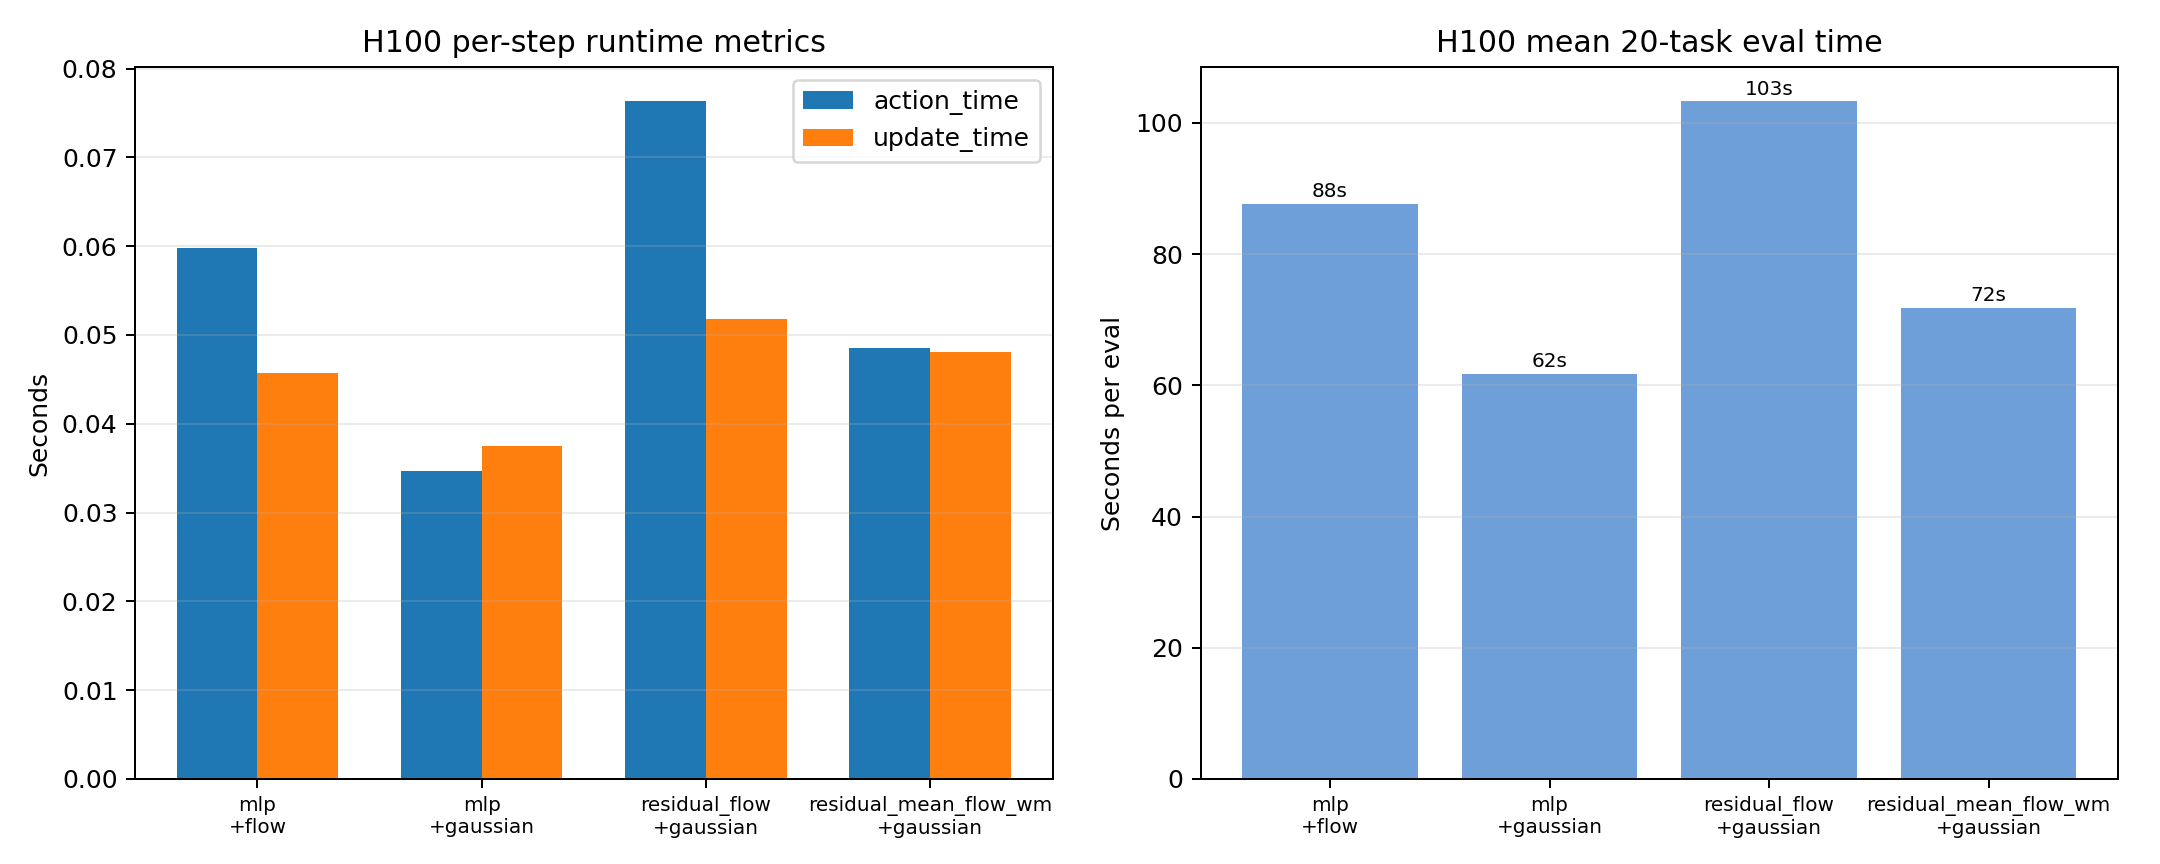
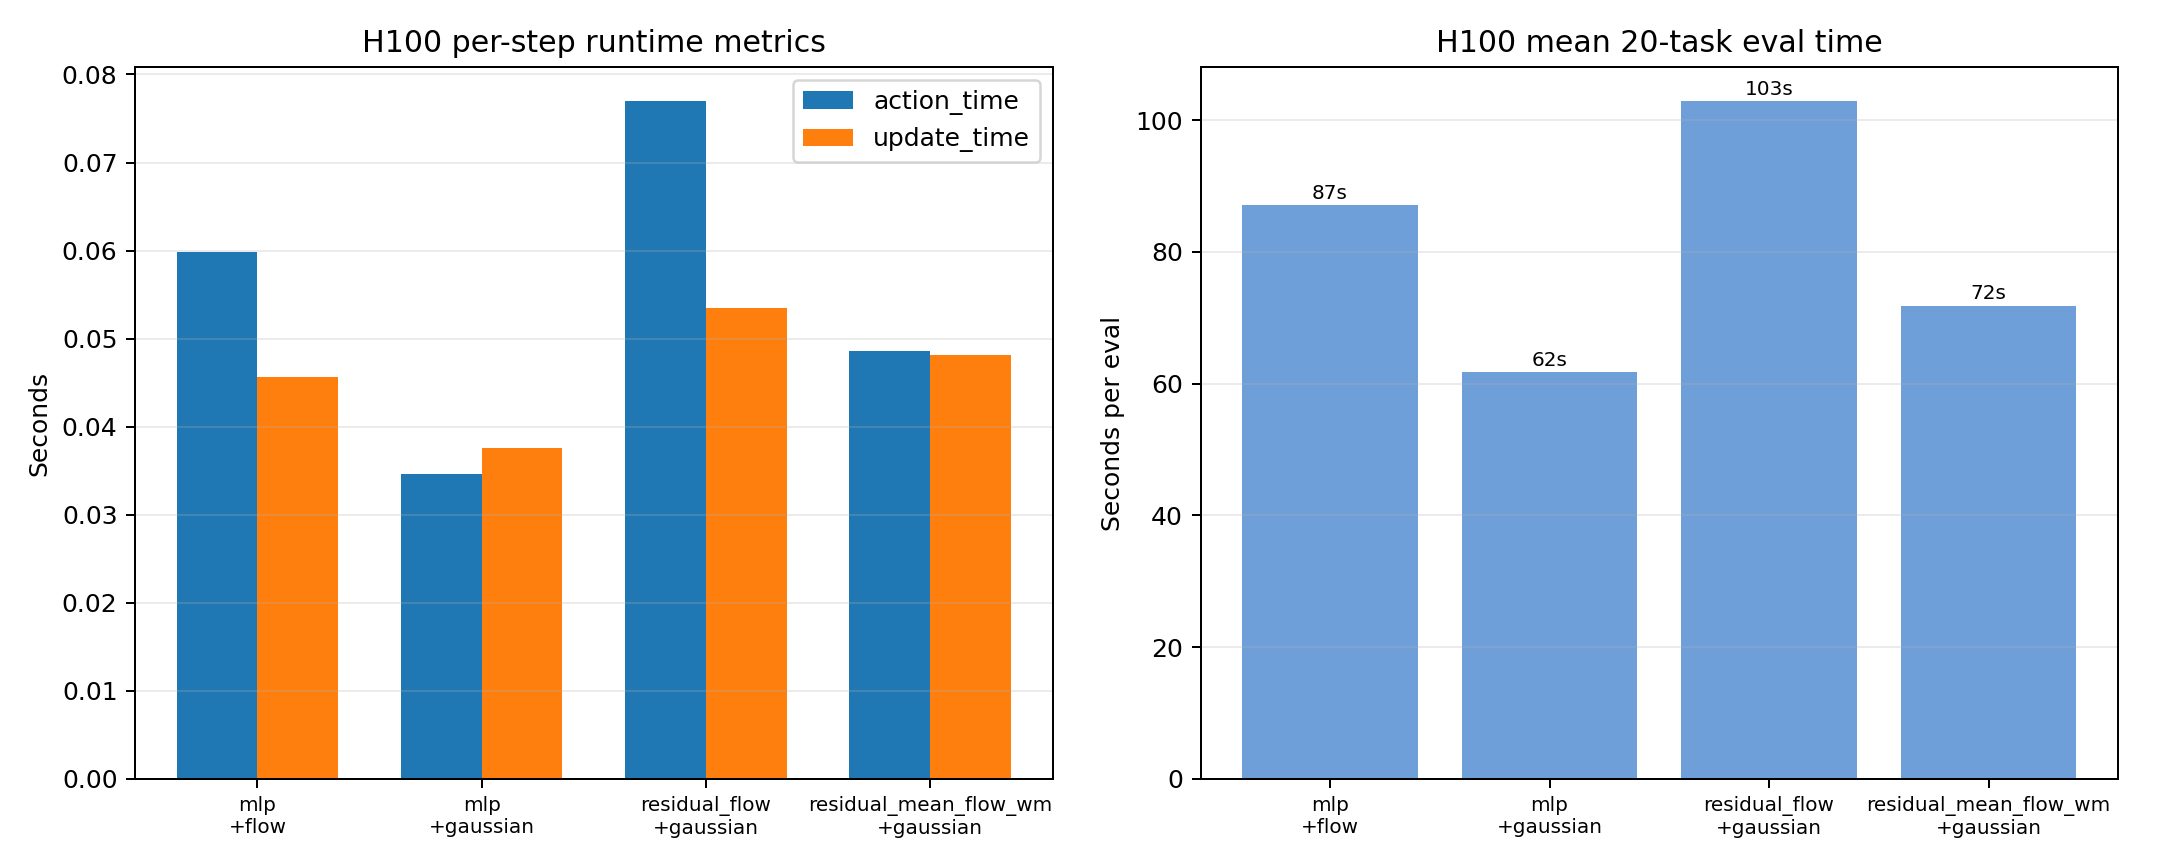
Update subset20 monitoring results

diff --git a/docs/experiment_results_summary.md b/docs/experiment_results_summary.md
@@ -1,6 +1,6 @@
 # Experiment Results Summary
 
-Last updated: 2026-06-10 19:32 EDT
+Last updated: 2026-06-10 20:30 EDT
 
 Metric: `avg_score`, the Newt/MMBench normalized score averaged over evaluated tasks. This is the same normalized-score definition used by the official Newt paper, but our local subset20/subset40 results are not directly comparable to the official 200-task protocol.
 
@@ -61,17 +61,17 @@ Metric: `avg_score`, the Newt/MMBench normalized score averaged over evaluated t
 | Subset20 10M high-step | 20 | 10M target + 50k demo | MLP | Gaussian | H100 | complete | 10.0M | 0.53816 | First completed 10M subset20 cell; peak observed eval was 0.59102 at 8.8M. |
 | Subset20 10M high-step | 20 | 10M target + 50k demo | MLP | flow | L40S | resubmitted | 7.6M | 0.58263 | Strong MLP-WM cell; preempted at 7.78M train and resubmitted as `9797385_[1]`. |
 | Subset20 10M high-step | 20 | 10M target + 50k demo | MLP | Gaussian | L40S | complete | 10.0M | 0.48801 | Completed 10M despite Slurm preemption label; peak observed eval was 0.55139 at 7.4M. |
-| Subset20 10M high-step | 20 | 10M target + 50k demo | MLP | Gaussian | H200 | running | 8.6M | 0.48073 | Active as `9796333_0`; peak observed eval was 0.53666 at 7.4M. |
-| Subset20 10M high-step | 20 | 10M target + 50k demo | MLP | flow | H100 | running | 9.0M | 0.56532 | Resubmitted as `9799983_1` from 8.5M full checkpoint; peak observed eval was 0.58825 at 4.0M. |
+| Subset20 10M high-step | 20 | 10M target + 50k demo | MLP | Gaussian | H200 | running | 9.4M | 0.43385 | Active as `9796333_0`; peak observed eval was 0.53666 at 7.4M. |
+| Subset20 10M high-step | 20 | 10M target + 50k demo | MLP | flow | H100 | running | 9.6M | 0.53309 | Resubmitted as `9799983_1` from 8.5M full checkpoint; peak observed eval was 0.58825 at 4.0M. |
 | Subset20 10M high-step | 20 | 10M target + 50k demo | MLP | flow | H200 | resubmitted | 9.0M | 0.58255 | Continuing toward 10M; peak observed eval was 0.58663 at 8.8M. |
-| Subset20 10M high-step | 20 | 10M target + 50k demo | MLP | Gaussian | A100 | running | 8.8M | 0.53211 | Active as `9796335_0`; best A100 MLP+Gaussian snapshot so far. |
-| Subset20 10M high-step | 20 | 10M target + 50k demo | MLP | flow | A100 | running | 7.2M | 0.51888 | Active as `9796335_1`; peak observed eval was 0.56850 at 6.8M. |
+| Subset20 10M high-step | 20 | 10M target + 50k demo | MLP | Gaussian | A100 | running | 9.2M | 0.53724 | Active as `9796335_0`; best A100 MLP+Gaussian snapshot so far. |
+| Subset20 10M high-step | 20 | 10M target + 50k demo | MLP | flow | A100 | running | 7.4M | 0.53330 | Active as `9796335_1`; peak observed eval was 0.56850 at 6.8M. |
 | Subset20 10M high-step | 20 | 10M target + 50k demo | residual_flow | Gaussian | L40S | resubmitted | 5.8M | 0.46335 | Preempted at 5.90M train and resubmitted as `9798924_[2-3]`. |
-| Subset20 10M high-step | 20 | 10M target + 50k demo | residual_mean_flow_wm | Gaussian | A100 | running | 5.6M | 0.39414 | Active as `9796335_3`; peak observed eval was 0.42541 at 4.4M. |
-| Subset20 10M high-step | 20 | 10M target + 50k demo | residual_mean_flow_wm | Gaussian | H200 | resubmitted | 7.2M | 0.44473 | Preempted at 7.24M train and resubmitted as `9797383_[3]`. |
+| Subset20 10M high-step | 20 | 10M target + 50k demo | residual_mean_flow_wm | Gaussian | A100 | running | 6.0M | 0.39683 | Active as `9796335_3`; peak observed eval was 0.42541 at 4.4M. |
+| Subset20 10M high-step | 20 | 10M target + 50k demo | residual_mean_flow_wm | Gaussian | H200 | running | 7.2M | 0.40268 | Active as `9797383_3`; peak observed eval was 0.45594 at 7.0M. |
 | Subset20 10M high-step | 20 | 10M target + 50k demo | residual_mean_flow_wm | Gaussian | H100 | complete | 10.0M | 0.48851 | Completed 10M despite Slurm preemption label; peak observed eval was 0.49207 at 9.2M. |
-| Subset20 10M high-step | 20 | 10M target + 50k demo | residual_flow | Gaussian | H100 | resubmitted | 7.0M | 0.41013 | Preempted at 7.0M full checkpoint and resubmitted as `9803431_[2]`; peak observed eval was 0.51065 at 6.0M. |
-| Subset20 10M high-step | 20 | 10M target + 50k demo | residual_flow | Gaussian | A100 | running | 4.8M | 0.41356 | Active as `9796335_2`; below MLP cells. |
+| Subset20 10M high-step | 20 | 10M target + 50k demo | residual_flow | Gaussian | H100 | running | 7.4M | 0.46682 | Active as `9803431_2`; peak observed eval was 0.51065 at 6.0M. |
+| Subset20 10M high-step | 20 | 10M target + 50k demo | residual_flow | Gaussian | A100 | running | 4.8M | 0.42288 | Active as `9796335_2`; below MLP cells. |
 | Subset20 10M high-step | 20 | 10M target + 50k demo | residual_mean_flow_wm | Gaussian | L40S | resubmitted | 6.6M | 0.37317 | Preempted at 6.74M train and resubmitted as `9798924_[2-3]`. |
 | Subset20 10M high-step | 20 | 10M target + 50k demo | residual_flow | Gaussian | H200 | resubmitted | 6.0M | 0.40036 | Below MLP cells. |
 
@@ -82,4 +82,4 @@ Current read:
 - New residual variants (`shortcut`, `residual_mean`, `ot_cfm`) did not beat plain `residual_flow` on completed subset40 evals.
 - The subset20 high-step direction is much stronger overall, with completed 10M rows for H100/L40S `MLP + Gaussian` and H100 `residual_mean_flow_wm + Gaussian`; these are still not directly comparable to official 200-task results.
 - Current subset20 ranking still favors MLP WM. H100 `residual_mean_flow_wm + Gaussian` reached 0.48851 at 10M, which is close to the L40S MLP baseline but below the best H100 MLP baseline.
-- The strongest ongoing architecture signal remains `MLP + flow policy`, with current partial evals from 0.519 to 0.583 across A100/H100/H200/L40S and continuations still active or pending.
+- The strongest ongoing architecture signal remains `MLP + flow policy`, with current partial evals from 0.533 to 0.583 across A100/H100/H200/L40S and continuations still active or pending.

diff --git a/docs/subset20_high_steps_plan.md b/docs/subset20_high_steps_plan.md
@@ -576,6 +576,49 @@ Current read:
 - L40S `residual_flow + gaussian` improved to `0.46335`, making it the strongest current flow-WM latest-step L40S result, but it is still below MLP-WM latest/peak scores.
 - No new code/data failure was found; stopped L40S jobs were preemptions and were resubmitted from checkpoints.
 
+## 2026-06-10 20:30 EDT Monitoring and Continuation
+
+Queue check:
+
+- Running:
+  - `9796335_[0-3]`: A100 all four subset20 cells.
+  - `9799983_1`: H100 `mlp + flow`.
+  - `9803431_2`: H100 `residual_flow + gaussian`.
+  - `9796333_0`: H200 `mlp + gaussian`.
+  - `9797383_3`: H200 `residual_mean_flow_wm + gaussian`.
+- Pending:
+  - `9796333_[1-2]`: H200 `mlp + flow` and `residual_flow + gaussian`.
+  - `9798924_[2-3]`: L40S flow-WM continuations.
+  - `9797385_1`: L40S `mlp + flow`.
+
+Checked stderr logs show no Python traceback, missing data error, or CUDA OOM. The only notable warnings are W&B resume messages where repeated lower-step logs are ignored until the resumed run passes the existing W&B step. This is expected when resuming from the latest full checkpoint behind the latest logged local step; local `metrics.jsonl` remains the source of truth for monitoring.
+
+Latest highest-step eval snapshot:
+
+| Run | Highest train step | Highest eval step | `avg_score` | Peak `avg_score` | Status |
+| --- | ---: | ---: | ---: | ---: | --- |
+| H100 `mlp + gaussian` | 10.0M | 10.0M | 0.53816 | 0.59102 | complete |
+| L40S `mlp + gaussian` | 10.0M | 10.0M | 0.48801 | 0.55139 | complete |
+| H100 `mlp + flow` | 9.60M | 9.6M | 0.53309 | 0.58825 | running |
+| H200 `mlp + flow` | 9.06M | 9.0M | 0.58255 | 0.58663 | pending continuation |
+| L40S `mlp + flow` | 7.78M | 7.6M | 0.58263 | 0.58263 | pending continuation |
+| A100 `mlp + flow` | 7.54M | 7.4M | 0.53330 | 0.56850 | running |
+| A100 `mlp + gaussian` | 9.32M | 9.2M | 0.53724 | 0.53724 | running |
+| H200 `mlp + gaussian` | 9.50M | 9.4M | 0.43385 | 0.53666 | running |
+| H100 `residual_flow + gaussian` | 7.52M | 7.4M | 0.46682 | 0.51065 | running |
+| H200 `residual_mean_flow_wm + gaussian` | 7.36M | 7.2M | 0.40268 | 0.45594 | running |
+| A100 `residual_mean_flow_wm + gaussian` | 6.08M | 6.0M | 0.39683 | 0.42541 | running |
+| A100 `residual_flow + gaussian` | 4.94M | 4.8M | 0.42288 | 0.42288 | running |
+| L40S `residual_flow + gaussian` | 5.90M | 5.8M | 0.46335 | 0.46335 | pending continuation |
+| L40S `residual_mean_flow_wm + gaussian` | 6.74M | 6.6M | 0.37317 | 0.37962 | pending continuation |
+| H200 `residual_flow + gaussian` | 6.12M | 6.0M | 0.40036 | 0.47019 | pending continuation |
+
+Current read:
+
+- No repair submission was needed at this check; active jobs are still progressing and preempted L40S/H200 backup continuations are already queued.
+- `MLP + flow` still has the best peak architecture signal, but H100 latest-step score dipped near 10M. Final 10M comparison should use both final and peak scores.
+- `residual_flow + gaussian` improved on H100 to `0.46682` at 7.4M, but it remains below MLP-WM cells and is slower at action/eval time.
+
 ## Success Criteria
 
 Primary metric:

diff --git a/docs/ablation_insights_summary.md b/docs/ablation_insights_summary.md
@@ -19,8 +19,8 @@ Important caveat: `mean +/- std` below is over completed local runs across GPU/r
 | Official TD-MPC2 single-task | 200 | 1B total across 200 single-task agents | MLP WM | Gaussian + MPC | 1B | 0.800 | n/a | Upper reference, not a multitask agent. |
 | Our subset40 best completed 2x2 | 40 | 5M + 50k demo | MLP WM | Flow policy | 5M | 0.321 +/- 0.012 | 0.339 | Mean +/- std over 4 completed runs; best single run 0.339. Best completed 2x2 architecture. |
 | Our subset40 best flow-WM | 40 | 5M + 50k demo | Residual_flow WM | Gaussian | 5M | 0.232 +/- 0.027 | 0.256 | Mean +/- std over 4 completed runs; best single run 0.256. Best flow-WM variant, still below MLP WM. |
-| Our subset20 strongest signal | 20 | 10M target + 50k demo | MLP WM | Flow policy | 7.2M-9.0M current | 0.519-0.583 | 0.588 | Best current architecture signal; runs are still active/resubmitted across H100/H200/A100/L40S. |
-| Our subset20 promising flow-WM | 20 | 10M target + 50k demo | Residual_flow WM | Gaussian | 4.8M-7.0M current | 0.400-0.463 | 0.511 | Flow-WM improves with more steps, but remains below MLP WM. H100 residual_flow has the strongest flow-WM peak so far. |
+| Our subset20 strongest signal | 20 | 10M target + 50k demo | MLP WM | Flow policy | 7.4M-9.6M current | 0.533-0.583 | 0.588 | Best current architecture signal; runs are still active/resubmitted across H100/H200/A100/L40S. |
+| Our subset20 promising flow-WM | 20 | 10M target + 50k demo | Residual_flow WM | Gaussian | 4.8M-7.4M current | 0.400-0.467 | 0.511 | Flow-WM improves with more steps, but remains below MLP WM. H100 residual_flow has the strongest flow-WM peak so far. |
 
 ## Architecture Ablation
 
@@ -99,9 +99,9 @@ Definitions:
 
 | Architecture | H100 eval step | Current avg_score | Peak score | Mean action_time | Mean update_time | Mean eval time | Compute read |
 | --- | ---: | ---: | ---: | ---: | ---: | ---: | --- |
-| MLP + flow policy | 9.0M | 0.565 | 0.588 | 0.060s | 0.046s | 87.6s | Best current score signal, but action planning is slower than Gaussian. |
+| MLP + flow policy | 9.6M | 0.533 | 0.588 | 0.060s | 0.046s | 87.1s | Best current peak score signal, but latest score dipped while action planning remains slower than Gaussian. |
 | MLP + Gaussian | 10.0M | 0.538 | 0.591 | 0.035s | 0.038s | 61.7s | Original Newt setting; fastest strong baseline on H100. |
-| residual_flow + Gaussian | 7.0M | 0.410 | 0.511 | 0.076s | 0.052s | 103.3s | Slower and lower score than MLP choices; currently not Pareto-efficient. |
+| residual_flow + Gaussian | 7.4M | 0.467 | 0.511 | 0.077s | 0.053s | 102.9s | Slower and lower score than MLP choices; currently not Pareto-efficient. |
 | residual_mean_flow_wm + Gaussian | 10.0M | 0.489 | 0.492 | 0.049s | 0.048s | 71.8s | Cheaper than residual_flow but still below MLP WM. |
 
 Figure:
